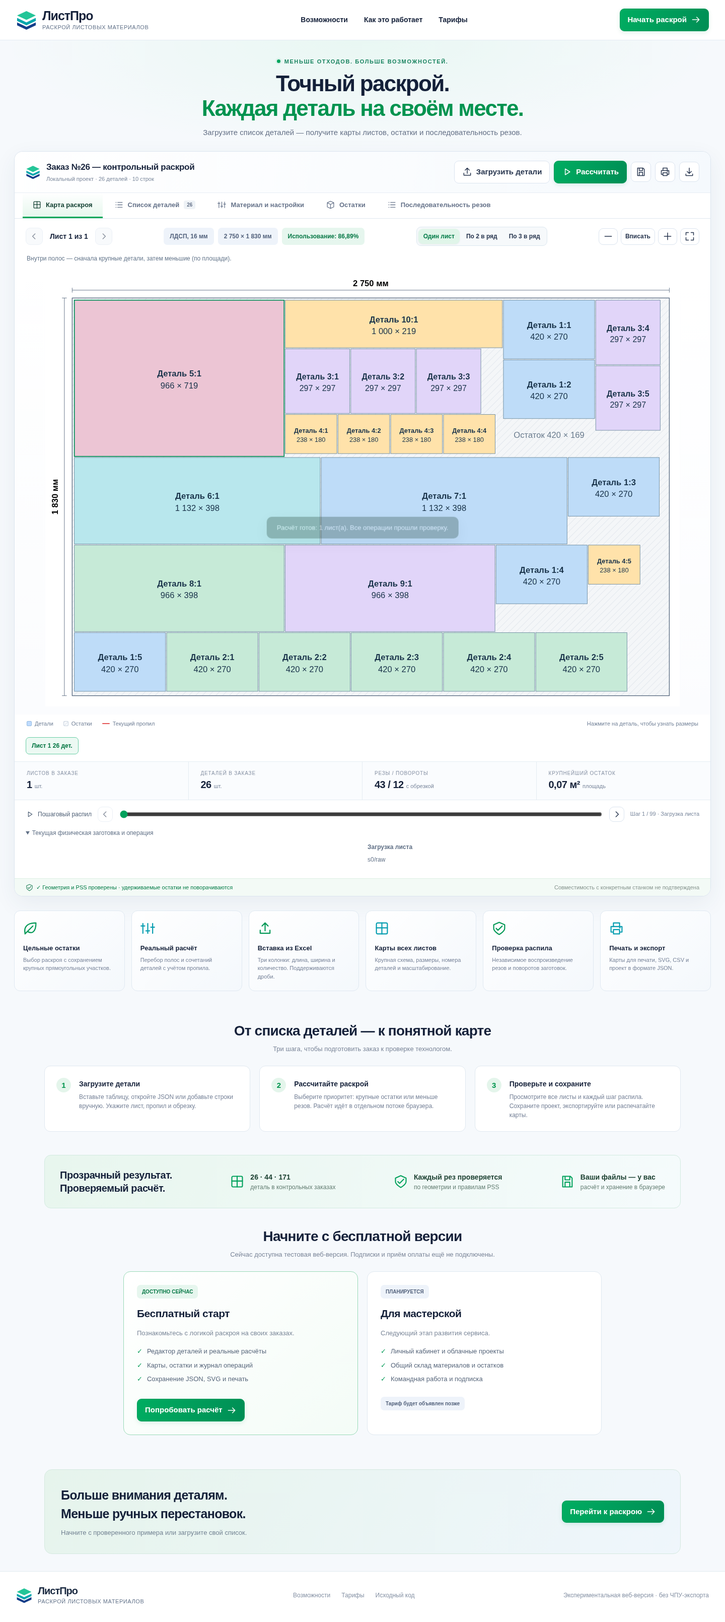
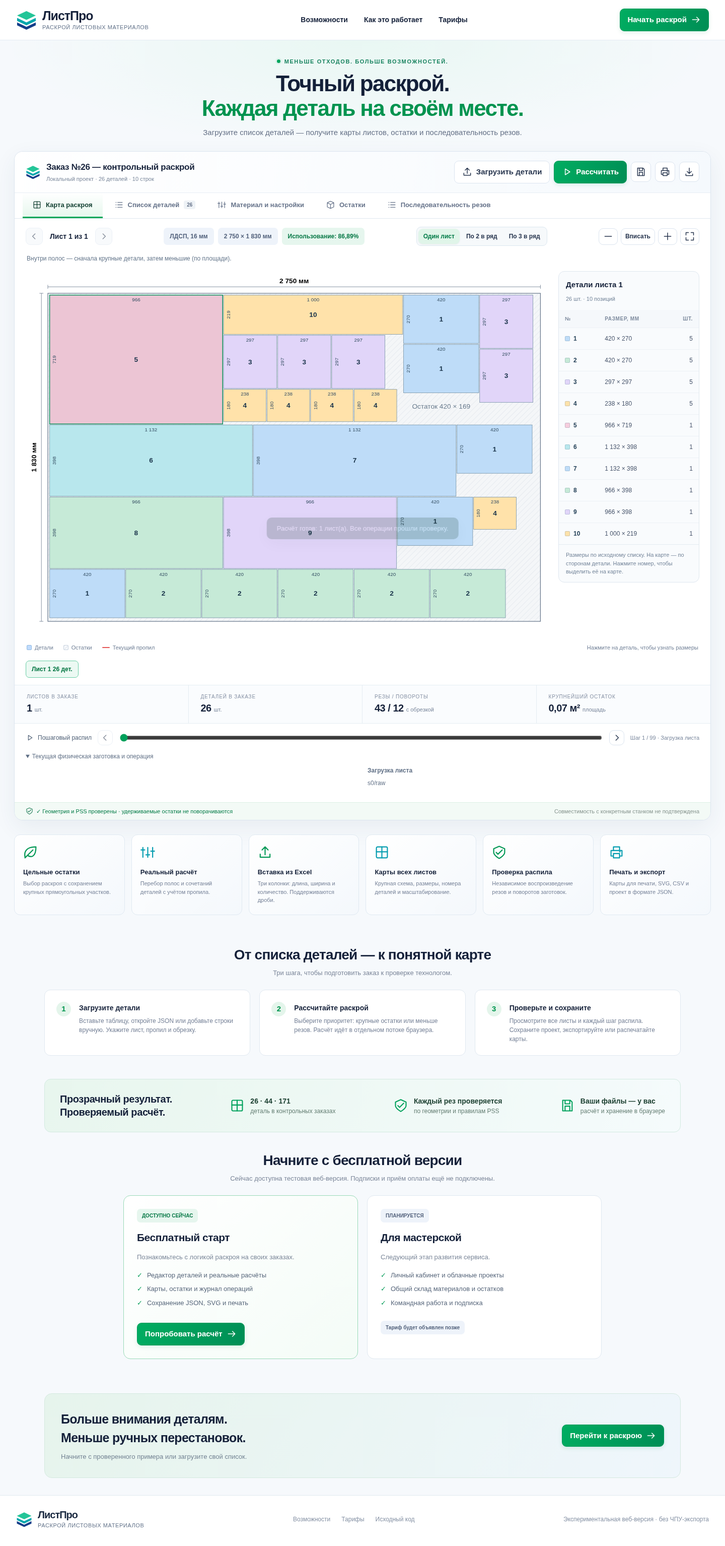
Show short part numbers, side dimensions and per-sheet parts list

diff --git a/listpro-core/web/index.html b/listpro-core/web/index.html
@@ -15,6 +15,10 @@
 @media(max-width:600px){.sheet-gallery,.sheet-gallery[data-columns="3"]{grid-template-columns:minmax(0,1fr);padding:0 12px 14px;gap:12px}.view-switch{width:100%;justify-content:center}.view-switch .btn{flex:1}.sheet-card{padding:10px}}
 
 .strip-order-note{font-size:12px;color:#64768b;padding:0 24px;margin:0 0 16px}.strip-order-note:empty{display:none}
+
+.sheet-detail{display:grid;grid-template-columns:minmax(0,1fr) 280px;gap:18px;padding:0 22px 16px;align-items:start}.sheet-detail .drawing{padding:0;min-width:0}.sheet-parts{min-width:0;border:1px solid #dfe7ef;border-radius:12px;background:#f9fbfd;overflow:hidden}.sheet-parts-heading{padding:15px 14px 12px}.sheet-parts-heading h3{font-size:15px;margin:0 0 4px}.sheet-parts-heading span{font-size:11px;color:#738499}.sheet-parts-scroll{max-height:calc(80vh - 160px);overflow:auto}.sheet-parts table{font-size:12px}.sheet-parts th{padding:10px 12px;font-size:10px}.sheet-parts td{padding:9px 12px;white-space:nowrap}.sheet-parts td:last-child,.sheet-parts th:last-child{text-align:right}.sheet-parts tbody tr{cursor:pointer}.sheet-parts tr.selected{background:#dff4e8}.sheet-parts p{font-size:11px;line-height:1.5;color:#738499;padding:12px 14px;margin:0;border-top:1px solid #e3ebf1}.part-link{display:inline-flex;align-items:center;gap:7px;border:0;padding:3px 0;background:none;font-weight:700;color:#244057}.part-link i{display:inline-block;width:10px;height:10px;border:1px solid #6f899b55;border-radius:2px}
+@media(max-width:900px){.sheet-detail{grid-template-columns:minmax(0,1fr)}.sheet-parts-scroll{max-height:320px}.sheet-parts{width:100%}}
+@media(max-width:600px){.sheet-detail{padding:0 12px 12px}}
 </style></head><body><noscript><p style="padding:20px">Для расчёта и просмотра карт включите JavaScript в браузере.</p></noscript>
 <svg xmlns="http://www.w3.org/2000/svg" class="icon-sprite" aria-hidden="true"><defs>
 <symbol id="i-play" viewBox="0 0 24 24"><path d="m8 5 11 7-11 7Z"/></symbol><symbol id="i-up" viewBox="0 0 24 24"><path d="M12 16V3m-5 5 5-5 5 5M4 15v5h16v-5"/></symbol><symbol id="i-down" viewBox="0 0 24 24"><path d="M12 3v13m-5-5 5 5 5-5M4 17v4h16v-4"/></symbol><symbol id="i-save" viewBox="0 0 24 24"><path d="M4 3h13l3 3v15H4Z M8 3v6h8V3M8 21v-8h8v8"/></symbol><symbol id="i-print" viewBox="0 0 24 24"><path d="M7 8V3h10v5M6 18H3V9h18v9h-3M7 14h10v7H7ZM17 11h1"/></symbol><symbol id="i-left" viewBox="0 0 24 24"><path d="m14 6-6 6 6 6"/></symbol><symbol id="i-right" viewBox="0 0 24 24"><path d="m10 6 6 6-6 6"/></symbol><symbol id="i-grid" viewBox="0 0 24 24"><rect x="3" y="3" width="18" height="18" rx="2"/><path d="M3 11h18M12 3v18"/></symbol><symbol id="i-list" viewBox="0 0 24 24"><path d="M8 5h13M8 12h13M8 19h13M3 5h1M3 12h1M3 19h1"/></symbol><symbol id="i-box" viewBox="0 0 24 24"><path d="m3 6 9-4 9 4-9 5Zm0 0v12l9 4 9-4V6M12 11v11"/></symbol><symbol id="i-settings" viewBox="0 0 24 24"><path d="M4 4v16M12 4v16M20 4v16M1 8h6M9 16h6M17 10h6"/></symbol><symbol id="i-check" viewBox="0 0 24 24"><path d="m5 12 4 4L20 5"/></symbol><symbol id="i-plus" viewBox="0 0 24 24"><path d="M12 4v16M4 12h16"/></symbol><symbol id="i-minus" viewBox="0 0 24 24"><path d="M4 12h16"/></symbol><symbol id="i-close" viewBox="0 0 24 24"><path d="m5 5 14 14M5 19 19 5"/></symbol><symbol id="i-expand" viewBox="0 0 24 24"><path d="M3 9V3h6M15 3h6v6M21 15v6h-6M9 21H3v-6"/></symbol><symbol id="i-shield" viewBox="0 0 24 24"><path d="m12 2 9 4v6c0 5-9 10-9 10S3 17 3 12V6Zm-5 10 3 3 7-7"/></symbol><symbol id="i-trash" viewBox="0 0 24 24"><path d="M3 6h18M8 6V3h8v3M5 6l1 15h12l1-15M9 10v7M15 10v7"/></symbol><symbol id="i-leaf" viewBox="0 0 24 24"><path d="M3 20C0 4 15 3 21 3c0 14-6 19-14 14M3 21 16 8"/></symbol><symbol id="i-arrow" viewBox="0 0 24 24"><path d="M4 12h16m-6-6 6 6-6 6"/></symbol>
@@ -29,7 +33,7 @@
 <div class="map-toolbar"><div class="sheet-nav"><button class="btn" id="prevSheet" aria-label="Предыдущий лист"><svg class="ico" aria-hidden="true"><use href="#i-left"/></svg></button><span id="sheetLabel">Лист 1 из 2</span><button class="btn" id="nextSheet" aria-label="Следующий лист"><svg class="ico" aria-hidden="true"><use href="#i-right"/></svg></button></div><div class="map-meta"><span class="pill" id="materialBadge">Листовой материал</span><span class="pill" id="sizeBadge">2750 × 1830 мм</span><span class="pill green" id="usageBadge">Использование: —</span></div><div class="view-switch" role="group" aria-label="Режим просмотра листов"><button class="btn" id="viewSingle" aria-pressed="false">Один лист</button><button class="btn" id="viewTwo" aria-pressed="true">По 2 в ряд</button><button class="btn" id="viewThree" aria-pressed="false">По 3 в ряд</button></div><div class="map-tools"><button class="btn" id="zoomOut" aria-label="Уменьшить"><svg class="ico" aria-hidden="true"><use href="#i-minus"/></svg></button><button class="btn" title="Вписать компактную карту" id="fit">Вписать</button><button class="btn" id="zoomIn" aria-label="Увеличить"><svg class="ico" aria-hidden="true"><use href="#i-plus"/></svg></button><button class="btn" id="full" aria-label="Открыть карту на весь экран" title="На весь экран"><svg class="ico" aria-hidden="true"><use href="#i-expand"/></svg></button></div></div>
 <p class="strip-order-note" id="orderHint" role="status"></p>
 <div class="sheet-gallery" id="sheetGallery" aria-label="Карты всех листов" hidden></div>
-<div class="drawing" id="drawing" aria-label="Карта выбранного листа"></div>
+<div class="sheet-detail" id="sheetDetail"><div class="drawing" id="drawing" aria-label="Карта выбранного листа"></div><aside class="sheet-parts" id="sheetParts" aria-labelledby="sheetPartsTitle"><div class="sheet-parts-heading"><h3 id="sheetPartsTitle">Детали листа</h3><span id="sheetPartsCount"></span></div><div class="sheet-parts-scroll"><table><thead><tr><th>№</th><th>Размер, мм</th><th>Шт.</th></tr></thead><tbody id="sheetPartsBody"></tbody></table></div><p>Размеры по исходному списку. На карте — по сторонам детали. Нажмите номер, чтобы выделить её на карте.</p></aside></div>
 <div class="legend"><div class="legend-items"><span class="legend-item"><i class="swatch"></i>Детали</span><span class="legend-item"><i class="swatch waste"></i>Остатки</span><span class="legend-item"><i class="swatch cut"></i>Текущий пропил</span></div><span id="partHint">Нажмите на деталь, чтобы узнать размеры</span></div>
 <div class="sheet-tabs" id="sheetTabs" aria-label="Все листы"></div>
 <div class="summary"><div><small>Листов в заказе</small><strong id="statSheets">—</strong><span>шт.</span></div><div><small>Деталей в заказе</small><strong id="statParts">—</strong><span>шт.</span></div><div><small>Резы / повороты</small><strong id="statCuts">—</strong><span>с обрезкой</span></div><div><small>Крупнейший остаток</small><strong id="statRemnant">—</strong><span>площадь</span></div></div>
@@ -1960,9 +1964,15 @@ const engine=load("web/engine.cjs");self.onmessage=({data:m})=>{try{let result;i
   out+='<rect width="'+W+'" height="'+H+'" fill="url(#'+id+')" stroke="#52647b" stroke-width="3"/>';
   out+='<path d="M0 -25v-22M'+W+' -25v-22M0 -36H'+W+' M-25 0h-22M-25 '+H+'h-22M-36 0V'+H+'" fill="none" stroke="#53647b" stroke-width="2"/><text x="'+W/2+'" y="-55" text-anchor="middle" font-size="'+fs+'" font-weight="600">'+fmt(W)+' мм</text><text transform="translate(-65 '+H/2+') rotate(-90)" text-anchor="middle" font-size="'+fs+'" font-weight="600">'+fmt(H)+' мм</text>';
   for(const a of sh.parts){
-   const cx=a.x+a.w/2,cy=a.y+a.h/2,vertical=a.w<a.h*.65,tw=vertical?a.h:a.w,th=vertical?a.w:a.h;
-   const f=Math.min(fs,tw/8,th/4),label=a.id+':'+a.instance;
-   out+='<g class="piece" data-part="'+label+'" tabindex="0" role="button" aria-label="Деталь '+label+', '+a.w+' на '+a.h+' миллиметров"><title>Деталь '+label+' · '+a.w+' × '+a.h+' мм'+(a.rotated?' · повёрнута':'')+'</title><rect x="'+a.x+'" y="'+a.y+'" width="'+a.w+'" height="'+a.h+'" fill="'+colors[(a.id-1)%colors.length]+'" stroke="#66869b" stroke-width="2"/><text transform="translate('+cx+' '+cy+')'+(vertical?' rotate(-90)':'')+'" text-anchor="middle" fill="#183249" font-size="'+f+'"><tspan x="0" dy="-0.2em" font-weight="650">Деталь '+label+'</tspan><tspan x="0" dy="1.4em">'+fmt(a.w)+' × '+fmt(a.h)+'</tspan></text></g>';
+   const cx=a.x+a.w/2,cy=a.y+a.h/2,vertical=a.w<a.h*.65,short=Math.min(a.w,a.h),span=vertical?a.h:a.w;
+   const f=Math.min(fs,short*.65,span/(String(a.id).length*.7+1)),key=a.id+':'+a.instance,small=short<fs*4;
+   out+='<g class="piece" data-part="'+key+'" data-part-id="'+a.id+'" tabindex="0" role="button" aria-label="Деталь №'+a.id+', '+a.w+' на '+a.h+' миллиметров"><title>№'+a.id+' · '+a.w+' × '+a.h+' мм'+(a.rotated?' · повёрнута':'')+'</title><rect x="'+a.x+'" y="'+a.y+'" width="'+a.w+'" height="'+a.h+'" fill="'+colors[(a.id-1)%colors.length]+'" stroke="#66869b" stroke-width="2"/>';
+   out+='<text class="part-number" transform="translate('+cx+' '+cy+')'+(small&&vertical?' rotate(-90)':'')+'" text-anchor="middle" dominant-baseline="central" fill="#183249" font-size="'+f+'" font-weight="700">'+a.id+'</text>';
+   if(!small){const df=fs*.72,inset=df*.55;
+    out+='<text class="part-dimension part-width" x="'+cx+'" y="'+(a.y+inset)+'" text-anchor="middle" dominant-baseline="hanging" fill="#354f63" font-size="'+df+'">'+fmt(a.w)+'</text>';
+    out+='<text class="part-dimension part-height" transform="translate('+(a.x+inset)+' '+cy+') rotate(-90)" text-anchor="middle" dominant-baseline="hanging" fill="#354f63" font-size="'+df+'">'+fmt(a.h)+'</text>';
+   }
+   out+='</g>';
   }
   const largest=sh.remnants.slice().sort((a,b)=>b.area-a.area)[0];
   if(largest&&largest.w>250&&largest.h>120)out+='<text x="'+(largest.x+largest.w/2)+'" y="'+(largest.y+largest.h/2)+'" text-anchor="middle" fill="#6a7c8e" font-size="'+Math.min(fs,largest.h/4)+'">Остаток '+fmt(largest.w)+' × '+fmt(largest.h)+'</text>';
@@ -1978,7 +1988,7 @@ const engine=load("web/engine.cjs");self.onmessage=({data:m})=>{try{let result;i
   for(const a of result.sheets[sheet].parts.filter(a=>a.x>=r.x-.001&&a.y>=r.y-.001&&a.x+a.w<=r.x+r.w+.001&&a.y+a.h<=r.y+r.h+.001)){
    const x=a.x-r.x,y=a.y-r.y,w=a.w,h=a.h;
    const t=[[x,y,w,h],[r.h-y-h,x,h,w],[r.w-x-w,r.h-y-h,w,h],[y,r.w-x-w,h,w]][q];
-   s+='<rect x="'+t[0]+'" y="'+t[1]+'" width="'+t[2]+'" height="'+t[3]+'" fill="'+colors[(a.id-1)%6]+'" stroke="#7c97aa" stroke-width="2"/><text x="'+(t[0]+t[2]/2)+'" y="'+(t[1]+t[3]/2)+'" text-anchor="middle" font-size="'+Math.min(34,t[2]/5,t[3]/3)+'">'+a.id+':'+a.instance+'</text>';
+   s+='<rect x="'+t[0]+'" y="'+t[1]+'" width="'+t[2]+'" height="'+t[3]+'" fill="'+colors[(a.id-1)%6]+'" stroke="#7c97aa" stroke-width="2"/><text x="'+(t[0]+t[2]/2)+'" y="'+(t[1]+t[3]/2)+'" text-anchor="middle" font-size="'+Math.min(34,t[2]/5,t[3]/3)+'">'+a.id+'</text>';
   }
   if(op.type==='cut')s+='<line x1="'+op.start.x+'" y1="'+op.start.y+'" x2="'+op.end.x+'" y2="'+op.end.y+'" stroke="#e24a36" stroke-width="'+Math.max(4,op.kerf)+'"/>';
   return s+'</svg>';
@@ -1986,13 +1996,13 @@ const engine=load("web/engine.cjs");self.onmessage=({data:m})=>{try{let result;i
  const typeName=o=>({load:'Загрузка листа',feed:o.feedMode==='advance-in-place'?'Продвижение остатка':'Установка полосы',cut:(o.edgeFinish?'Торцовка №':'Пропил №')+o.cutIndex,rotate:'Поворот на 90°',endPrimary:'Первичные полосы отделены'}[o.type]||o.type);
  function draw(){
   const gallery=!!result&&columns>1;
-  $('sheetGallery').hidden=!gallery;$('drawing').hidden=gallery;$('sheetTabs').hidden=gallery;$('sheetReplay').hidden=!result||gallery;
+  $('sheetGallery').hidden=!gallery;$('sheetDetail').hidden=gallery;$('drawing').hidden=gallery;$('sheetParts').hidden=!result;$('sheetTabs').hidden=gallery;$('sheetReplay').hidden=!result||gallery;
   $('prevSheet').hidden=gallery;$('nextSheet').hidden=gallery;
   for(const [id,n]of [['viewSingle',1],['viewTwo',2],['viewThree',3]])$(id).setAttribute('aria-pressed',String(columns===n));
   for(const id of ['zoomIn','zoomOut','fit'])$(id).disabled=!result||gallery;
   $('partHint').textContent=gallery?'Нажмите на лист, чтобы открыть крупную карту и шаги распила':'Нажмите на деталь, чтобы узнать размеры';
   $('drawing').classList.toggle('empty',!result);
-  if(!result){$('sheetGallery').innerHTML='';$('drawing').innerHTML='<div class="empty-state"><strong>Карта появится после расчёта</strong><p>Загрузите детали или выберите пример.</p></div>';$('physicalDrawing').innerHTML='';$('opDetails').textContent='';$('opLabel').textContent='Последовательность ещё не рассчитана';return;}
+  if(!result){$('sheetPartsBody').innerHTML='';$('sheetGallery').innerHTML='';$('drawing').innerHTML='<div class="empty-state"><strong>Карта появится после расчёта</strong><p>Загрузите детали или выберите пример.</p></div>';$('physicalDrawing').innerHTML='';$('opDetails').textContent='';$('opLabel').textContent='Последовательность ещё не рассчитана';return;}
   const sh=result.sheets[sheet],p=result.parameters,op=operation();
   if(gallery){
    $('sheetGallery').setAttribute('data-columns',String(columns));
@@ -2002,6 +2012,7 @@ const engine=load("web/engine.cjs");self.onmessage=({data:m})=>{try{let result;i
    }).join('');
   }
   $('drawing').innerHTML=mapSVG(sheet,true);const picture=$('drawing').firstElementChild,margin=Math.max(p.sheetW*.045,90),ratio=(p.sheetW+margin*1.4)/(p.sheetH+margin*1.4);picture.style.width='min('+(zoom*100)+'%, '+(80*ratio*zoom)+'vh)';picture.style.maxHeight=(80*zoom)+'vh';
+  renderSheetParts();
   $('sheetLabel').textContent=gallery?'Все листы · '+result.sheets.length:'Лист '+(sheet+1)+' из '+result.sheets.length;$('prevSheet').disabled=sheet===0;$('nextSheet').disabled=sheet===result.sheets.length-1;
   $('materialBadge').textContent=project.material;$('sizeBadge').textContent=fmt(p.sheetW)+' × '+fmt(p.sheetH)+' мм';
   $('usageBadge').textContent='Использование: '+fmt(100*(gallery?result.sheets.flatMap(s=>s.parts):sh.parts).reduce((n,a)=>n+a.w*a.h,0)/(p.sheetW*p.sheetH*(gallery?result.sheets.length:1)))+'%';
@@ -2012,6 +2023,15 @@ const engine=load("web/engine.cjs");self.onmessage=({data:m})=>{try{let result;i
   $('physicalDrawing').innerHTML=physicalSVG(op);
   const frame=result.verification.roleFrames.find(f=>f.step===op.step);
   $('opDetails').innerHTML='<strong>'+esc(typeName(op))+'</strong><p>'+esc(op.inputBlankId||op.blankId||'')+'</p>'+(op.materialRect?'<p>Заготовка: '+fmt(op.type==='rotate'?op.beforeSize.w:op.w)+' × '+fmt(op.type==='rotate'?op.beforeSize.h:op.h)+' мм<br>Ориентация: '+(op.fromOrientation??op.machineOrientation??0)+'°'+(op.type==='rotate'?' → '+op.toOrientation+'°':'')+'</p>':'')+(op.type==='cut'?'<p>Ось '+op.axis+' · позиция '+fmt(op.axis==='V'?op.start.x:op.start.y)+' мм · пропил '+op.kerf+' мм</p>':'')+(op.edgeFinish?'<p>Торцовка края: часть ширины диска проходит вне заготовки. Размер детали сохранён.</p>':'')+(frame?'<p>'+frame.outputs.map(c=>esc(c.id)+'<br>'+fmt(op.machineOrientation%180?c.rect.h:c.rect.w)+' × '+fmt(op.machineOrientation%180?c.rect.w:c.rect.h)+' мм в станке · '+(op.edgeFinish?'готовая деталь':c.role==='TRIM'?'обрезок':c.held?'удерживается: только дальнейший распуск':'отделена: допускается один поворот')).join('<br><br>')+'</p>':'');
+ }
+ function renderSheetParts(){
+  const sh=result.sheets[sheet],counts=new Map();sh.parts.forEach(a=>counts.set(a.id,(counts.get(a.id)||0)+1));
+  $('sheetPartsTitle').textContent='Детали листа '+(sheet+1);
+  $('sheetPartsCount').textContent=sh.parts.length+' шт. · '+counts.size+' позиций';
+  $('sheetPartsBody').innerHTML=[...counts].sort((a,b)=>a[0]-b[0]).map(([id,q])=>{
+   const a=result.parameters.pieces.find(p=>p.id===id);
+   return '<tr data-sheet-part="'+id+'"><td><button class="part-link" data-highlight-part="'+id+'" aria-label="Показать детали №'+id+' на карте"><i style="background:'+colors[(id-1)%colors.length]+'"></i>'+id+'</button></td><td>'+fmt(a.l)+' × '+fmt(a.w)+'</td><td>'+q+'</td></tr>';
+  }).join('');
  }
  function renderResult(){
   const has=!!result,order=result?.ordering;
@@ -2079,8 +2099,16 @@ const engine=load("web/engine.cjs");self.onmessage=({data:m})=>{try{let result;i
  $('prevOp').onclick=()=>gotoStep(step-1);$('nextOp').onclick=()=>gotoStep(step+1);$('opRange').oninput=()=>gotoStep(Number($('opRange').value));
  function pickOp(e){const row=e.target.closest('[data-step]');if(row){gotoStep(Number(row.dataset.step));tab('map');$('drawing').scrollIntoView({block:'center',behavior:'smooth'});}}
  $('operationsBody').onclick=pickOp;$('operationsBody').onkeydown=e=>{if(e.key==='Enter')pickOp(e);};
- function pickPart(e){const g=e.target.closest('[data-part]');if(!g)return;all('#drawing [data-part] rect').forEach(r=>r.setAttribute('stroke-width','2'));g.querySelector('rect').setAttribute('stroke-width','8');const a=result.sheets[sheet].parts.find(a=>a.id+':'+a.instance===g.dataset.part);$('partHint').textContent='Деталь '+g.dataset.part+' · '+fmt(a.w)+' × '+fmt(a.h)+' мм · X '+fmt(a.x)+', Y '+fmt(a.y)+(a.rotated?' · повёрнута относительно исходных размеров':'');}
- $('drawing').onclick=pickPart;$('drawing').onkeydown=e=>{if(e.key==='Enter'||e.key===' ')pickPart(e);};
+ function highlightPart(id,key=null){
+  if(!result)return;const parts=result.sheets[sheet].parts.filter(a=>a.id===id);if(!parts.length)return;
+  all('#drawing [data-part]').forEach(g=>{const on=key?g.dataset.part===key:Number(g.dataset.partId)===id;g.querySelector('rect').setAttribute('stroke-width',on?'8':'2');g.querySelector('rect').setAttribute('stroke',on?'#00864f':'#66869b');});
+  all('#sheetPartsBody tr').forEach(row=>row.classList.toggle('selected',Number(row.dataset.sheetPart)===id));
+  const a=key?parts.find(a=>a.id+':'+a.instance===key):result.parameters.pieces.find(a=>a.id===id);
+  $('partHint').textContent='№ '+id+' · '+fmt(key?a.w:a.l)+' × '+fmt(key?a.h:a.w)+' мм · на листе '+parts.length+' шт.';
+ }
+ function pickPart(e){const g=e.target.closest('[data-part]');if(!g)return;highlightPart(Number(g.dataset.partId),g.dataset.part);const row=$('sheetPartsBody').querySelector('[data-sheet-part="'+g.dataset.partId+'"]');row?.scrollIntoView({block:'nearest'});}
+ $('drawing').onclick=pickPart;$('drawing').onkeydown=e=>{if(e.key==='Enter'||e.key===' '){e.preventDefault();pickPart(e);}};
+ $('sheetPartsBody').onclick=e=>{const row=e.target.closest('[data-sheet-part]');if(row)highlightPart(Number(row.dataset.sheetPart));};
  document.addEventListener('fullscreenchange',draw);
  $('zoomIn').onclick=()=>{zoom=Math.min(3,zoom+.25);draw();};$('zoomOut').onclick=()=>{zoom=Math.max(1,zoom-.25);draw();};$('fit').onclick=()=>{zoom=1;draw();};
  $('full').onclick=async()=>{try{if(document.fullscreenElement)await document.exitFullscreen();else await $('workspace').requestFullscreen();}catch{toast('Полноэкранный режим недоступен в этом браузере.');}};

diff --git a/listpro-core/web/app.js b/listpro-core/web/app.js
@@ -41,9 +41,15 @@
   out+='<rect width="'+W+'" height="'+H+'" fill="url(#'+id+')" stroke="#52647b" stroke-width="3"/>';
   out+='<path d="M0 -25v-22M'+W+' -25v-22M0 -36H'+W+' M-25 0h-22M-25 '+H+'h-22M-36 0V'+H+'" fill="none" stroke="#53647b" stroke-width="2"/><text x="'+W/2+'" y="-55" text-anchor="middle" font-size="'+fs+'" font-weight="600">'+fmt(W)+' мм</text><text transform="translate(-65 '+H/2+') rotate(-90)" text-anchor="middle" font-size="'+fs+'" font-weight="600">'+fmt(H)+' мм</text>';
   for(const a of sh.parts){
-   const cx=a.x+a.w/2,cy=a.y+a.h/2,vertical=a.w<a.h*.65,tw=vertical?a.h:a.w,th=vertical?a.w:a.h;
-   const f=Math.min(fs,tw/8,th/4),label=a.id+':'+a.instance;
-   out+='<g class="piece" data-part="'+label+'" tabindex="0" role="button" aria-label="Деталь '+label+', '+a.w+' на '+a.h+' миллиметров"><title>Деталь '+label+' · '+a.w+' × '+a.h+' мм'+(a.rotated?' · повёрнута':'')+'</title><rect x="'+a.x+'" y="'+a.y+'" width="'+a.w+'" height="'+a.h+'" fill="'+colors[(a.id-1)%colors.length]+'" stroke="#66869b" stroke-width="2"/><text transform="translate('+cx+' '+cy+')'+(vertical?' rotate(-90)':'')+'" text-anchor="middle" fill="#183249" font-size="'+f+'"><tspan x="0" dy="-0.2em" font-weight="650">Деталь '+label+'</tspan><tspan x="0" dy="1.4em">'+fmt(a.w)+' × '+fmt(a.h)+'</tspan></text></g>';
+   const cx=a.x+a.w/2,cy=a.y+a.h/2,vertical=a.w<a.h*.65,short=Math.min(a.w,a.h),span=vertical?a.h:a.w;
+   const f=Math.min(fs,short*.65,span/(String(a.id).length*.7+1)),key=a.id+':'+a.instance,small=short<fs*4;
+   out+='<g class="piece" data-part="'+key+'" data-part-id="'+a.id+'" tabindex="0" role="button" aria-label="Деталь №'+a.id+', '+a.w+' на '+a.h+' миллиметров"><title>№'+a.id+' · '+a.w+' × '+a.h+' мм'+(a.rotated?' · повёрнута':'')+'</title><rect x="'+a.x+'" y="'+a.y+'" width="'+a.w+'" height="'+a.h+'" fill="'+colors[(a.id-1)%colors.length]+'" stroke="#66869b" stroke-width="2"/>';
+   out+='<text class="part-number" transform="translate('+cx+' '+cy+')'+(small&&vertical?' rotate(-90)':'')+'" text-anchor="middle" dominant-baseline="central" fill="#183249" font-size="'+f+'" font-weight="700">'+a.id+'</text>';
+   if(!small){const df=fs*.72,inset=df*.55;
+    out+='<text class="part-dimension part-width" x="'+cx+'" y="'+(a.y+inset)+'" text-anchor="middle" dominant-baseline="hanging" fill="#354f63" font-size="'+df+'">'+fmt(a.w)+'</text>';
+    out+='<text class="part-dimension part-height" transform="translate('+(a.x+inset)+' '+cy+') rotate(-90)" text-anchor="middle" dominant-baseline="hanging" fill="#354f63" font-size="'+df+'">'+fmt(a.h)+'</text>';
+   }
+   out+='</g>';
   }
   const largest=sh.remnants.slice().sort((a,b)=>b.area-a.area)[0];
   if(largest&&largest.w>250&&largest.h>120)out+='<text x="'+(largest.x+largest.w/2)+'" y="'+(largest.y+largest.h/2)+'" text-anchor="middle" fill="#6a7c8e" font-size="'+Math.min(fs,largest.h/4)+'">Остаток '+fmt(largest.w)+' × '+fmt(largest.h)+'</text>';
@@ -59,7 +65,7 @@
   for(const a of result.sheets[sheet].parts.filter(a=>a.x>=r.x-.001&&a.y>=r.y-.001&&a.x+a.w<=r.x+r.w+.001&&a.y+a.h<=r.y+r.h+.001)){
    const x=a.x-r.x,y=a.y-r.y,w=a.w,h=a.h;
    const t=[[x,y,w,h],[r.h-y-h,x,h,w],[r.w-x-w,r.h-y-h,w,h],[y,r.w-x-w,h,w]][q];
-   s+='<rect x="'+t[0]+'" y="'+t[1]+'" width="'+t[2]+'" height="'+t[3]+'" fill="'+colors[(a.id-1)%6]+'" stroke="#7c97aa" stroke-width="2"/><text x="'+(t[0]+t[2]/2)+'" y="'+(t[1]+t[3]/2)+'" text-anchor="middle" font-size="'+Math.min(34,t[2]/5,t[3]/3)+'">'+a.id+':'+a.instance+'</text>';
+   s+='<rect x="'+t[0]+'" y="'+t[1]+'" width="'+t[2]+'" height="'+t[3]+'" fill="'+colors[(a.id-1)%6]+'" stroke="#7c97aa" stroke-width="2"/><text x="'+(t[0]+t[2]/2)+'" y="'+(t[1]+t[3]/2)+'" text-anchor="middle" font-size="'+Math.min(34,t[2]/5,t[3]/3)+'">'+a.id+'</text>';
   }
   if(op.type==='cut')s+='<line x1="'+op.start.x+'" y1="'+op.start.y+'" x2="'+op.end.x+'" y2="'+op.end.y+'" stroke="#e24a36" stroke-width="'+Math.max(4,op.kerf)+'"/>';
   return s+'</svg>';
@@ -67,13 +73,13 @@
  const typeName=o=>({load:'Загрузка листа',feed:o.feedMode==='advance-in-place'?'Продвижение остатка':'Установка полосы',cut:(o.edgeFinish?'Торцовка №':'Пропил №')+o.cutIndex,rotate:'Поворот на 90°',endPrimary:'Первичные полосы отделены'}[o.type]||o.type);
  function draw(){
   const gallery=!!result&&columns>1;
-  $('sheetGallery').hidden=!gallery;$('drawing').hidden=gallery;$('sheetTabs').hidden=gallery;$('sheetReplay').hidden=!result||gallery;
+  $('sheetGallery').hidden=!gallery;$('sheetDetail').hidden=gallery;$('drawing').hidden=gallery;$('sheetParts').hidden=!result;$('sheetTabs').hidden=gallery;$('sheetReplay').hidden=!result||gallery;
   $('prevSheet').hidden=gallery;$('nextSheet').hidden=gallery;
   for(const [id,n]of [['viewSingle',1],['viewTwo',2],['viewThree',3]])$(id).setAttribute('aria-pressed',String(columns===n));
   for(const id of ['zoomIn','zoomOut','fit'])$(id).disabled=!result||gallery;
   $('partHint').textContent=gallery?'Нажмите на лист, чтобы открыть крупную карту и шаги распила':'Нажмите на деталь, чтобы узнать размеры';
   $('drawing').classList.toggle('empty',!result);
-  if(!result){$('sheetGallery').innerHTML='';$('drawing').innerHTML='<div class="empty-state"><strong>Карта появится после расчёта</strong><p>Загрузите детали или выберите пример.</p></div>';$('physicalDrawing').innerHTML='';$('opDetails').textContent='';$('opLabel').textContent='Последовательность ещё не рассчитана';return;}
+  if(!result){$('sheetPartsBody').innerHTML='';$('sheetGallery').innerHTML='';$('drawing').innerHTML='<div class="empty-state"><strong>Карта появится после расчёта</strong><p>Загрузите детали или выберите пример.</p></div>';$('physicalDrawing').innerHTML='';$('opDetails').textContent='';$('opLabel').textContent='Последовательность ещё не рассчитана';return;}
   const sh=result.sheets[sheet],p=result.parameters,op=operation();
   if(gallery){
    $('sheetGallery').setAttribute('data-columns',String(columns));
@@ -83,6 +89,7 @@
    }).join('');
   }
   $('drawing').innerHTML=mapSVG(sheet,true);const picture=$('drawing').firstElementChild,margin=Math.max(p.sheetW*.045,90),ratio=(p.sheetW+margin*1.4)/(p.sheetH+margin*1.4);picture.style.width='min('+(zoom*100)+'%, '+(80*ratio*zoom)+'vh)';picture.style.maxHeight=(80*zoom)+'vh';
+  renderSheetParts();
   $('sheetLabel').textContent=gallery?'Все листы · '+result.sheets.length:'Лист '+(sheet+1)+' из '+result.sheets.length;$('prevSheet').disabled=sheet===0;$('nextSheet').disabled=sheet===result.sheets.length-1;
   $('materialBadge').textContent=project.material;$('sizeBadge').textContent=fmt(p.sheetW)+' × '+fmt(p.sheetH)+' мм';
   $('usageBadge').textContent='Использование: '+fmt(100*(gallery?result.sheets.flatMap(s=>s.parts):sh.parts).reduce((n,a)=>n+a.w*a.h,0)/(p.sheetW*p.sheetH*(gallery?result.sheets.length:1)))+'%';
@@ -93,6 +100,15 @@
   $('physicalDrawing').innerHTML=physicalSVG(op);
   const frame=result.verification.roleFrames.find(f=>f.step===op.step);
   $('opDetails').innerHTML='<strong>'+esc(typeName(op))+'</strong><p>'+esc(op.inputBlankId||op.blankId||'')+'</p>'+(op.materialRect?'<p>Заготовка: '+fmt(op.type==='rotate'?op.beforeSize.w:op.w)+' × '+fmt(op.type==='rotate'?op.beforeSize.h:op.h)+' мм<br>Ориентация: '+(op.fromOrientation??op.machineOrientation??0)+'°'+(op.type==='rotate'?' → '+op.toOrientation+'°':'')+'</p>':'')+(op.type==='cut'?'<p>Ось '+op.axis+' · позиция '+fmt(op.axis==='V'?op.start.x:op.start.y)+' мм · пропил '+op.kerf+' мм</p>':'')+(op.edgeFinish?'<p>Торцовка края: часть ширины диска проходит вне заготовки. Размер детали сохранён.</p>':'')+(frame?'<p>'+frame.outputs.map(c=>esc(c.id)+'<br>'+fmt(op.machineOrientation%180?c.rect.h:c.rect.w)+' × '+fmt(op.machineOrientation%180?c.rect.w:c.rect.h)+' мм в станке · '+(op.edgeFinish?'готовая деталь':c.role==='TRIM'?'обрезок':c.held?'удерживается: только дальнейший распуск':'отделена: допускается один поворот')).join('<br><br>')+'</p>':'');
+ }
+ function renderSheetParts(){
+  const sh=result.sheets[sheet],counts=new Map();sh.parts.forEach(a=>counts.set(a.id,(counts.get(a.id)||0)+1));
+  $('sheetPartsTitle').textContent='Детали листа '+(sheet+1);
+  $('sheetPartsCount').textContent=sh.parts.length+' шт. · '+counts.size+' позиций';
+  $('sheetPartsBody').innerHTML=[...counts].sort((a,b)=>a[0]-b[0]).map(([id,q])=>{
+   const a=result.parameters.pieces.find(p=>p.id===id);
+   return '<tr data-sheet-part="'+id+'"><td><button class="part-link" data-highlight-part="'+id+'" aria-label="Показать детали №'+id+' на карте"><i style="background:'+colors[(id-1)%colors.length]+'"></i>'+id+'</button></td><td>'+fmt(a.l)+' × '+fmt(a.w)+'</td><td>'+q+'</td></tr>';
+  }).join('');
  }
  function renderResult(){
   const has=!!result,order=result?.ordering;
@@ -160,8 +176,16 @@
  $('prevOp').onclick=()=>gotoStep(step-1);$('nextOp').onclick=()=>gotoStep(step+1);$('opRange').oninput=()=>gotoStep(Number($('opRange').value));
  function pickOp(e){const row=e.target.closest('[data-step]');if(row){gotoStep(Number(row.dataset.step));tab('map');$('drawing').scrollIntoView({block:'center',behavior:'smooth'});}}
  $('operationsBody').onclick=pickOp;$('operationsBody').onkeydown=e=>{if(e.key==='Enter')pickOp(e);};
- function pickPart(e){const g=e.target.closest('[data-part]');if(!g)return;all('#drawing [data-part] rect').forEach(r=>r.setAttribute('stroke-width','2'));g.querySelector('rect').setAttribute('stroke-width','8');const a=result.sheets[sheet].parts.find(a=>a.id+':'+a.instance===g.dataset.part);$('partHint').textContent='Деталь '+g.dataset.part+' · '+fmt(a.w)+' × '+fmt(a.h)+' мм · X '+fmt(a.x)+', Y '+fmt(a.y)+(a.rotated?' · повёрнута относительно исходных размеров':'');}
- $('drawing').onclick=pickPart;$('drawing').onkeydown=e=>{if(e.key==='Enter'||e.key===' ')pickPart(e);};
+ function highlightPart(id,key=null){
+  if(!result)return;const parts=result.sheets[sheet].parts.filter(a=>a.id===id);if(!parts.length)return;
+  all('#drawing [data-part]').forEach(g=>{const on=key?g.dataset.part===key:Number(g.dataset.partId)===id;g.querySelector('rect').setAttribute('stroke-width',on?'8':'2');g.querySelector('rect').setAttribute('stroke',on?'#00864f':'#66869b');});
+  all('#sheetPartsBody tr').forEach(row=>row.classList.toggle('selected',Number(row.dataset.sheetPart)===id));
+  const a=key?parts.find(a=>a.id+':'+a.instance===key):result.parameters.pieces.find(a=>a.id===id);
+  $('partHint').textContent='№ '+id+' · '+fmt(key?a.w:a.l)+' × '+fmt(key?a.h:a.w)+' мм · на листе '+parts.length+' шт.';
+ }
+ function pickPart(e){const g=e.target.closest('[data-part]');if(!g)return;highlightPart(Number(g.dataset.partId),g.dataset.part);const row=$('sheetPartsBody').querySelector('[data-sheet-part="'+g.dataset.partId+'"]');row?.scrollIntoView({block:'nearest'});}
+ $('drawing').onclick=pickPart;$('drawing').onkeydown=e=>{if(e.key==='Enter'||e.key===' '){e.preventDefault();pickPart(e);}};
+ $('sheetPartsBody').onclick=e=>{const row=e.target.closest('[data-sheet-part]');if(row)highlightPart(Number(row.dataset.sheetPart));};
  document.addEventListener('fullscreenchange',draw);
  $('zoomIn').onclick=()=>{zoom=Math.min(3,zoom+.25);draw();};$('zoomOut').onclick=()=>{zoom=Math.max(1,zoom-.25);draw();};$('fit').onclick=()=>{zoom=1;draw();};
  $('full').onclick=async()=>{try{if(document.fullscreenElement)await document.exitFullscreen();else await $('workspace').requestFullscreen();}catch{toast('Полноэкранный режим недоступен в этом браузере.');}};

diff --git a/listpro-core/web/template.html b/listpro-core/web/template.html
@@ -12,7 +12,7 @@
 <div class="map-toolbar"><div class="sheet-nav"><button class="btn" id="prevSheet" aria-label="Предыдущий лист"><svg class="ico" aria-hidden="true"><use href="#i-left"/></svg></button><span id="sheetLabel">Лист 1 из 2</span><button class="btn" id="nextSheet" aria-label="Следующий лист"><svg class="ico" aria-hidden="true"><use href="#i-right"/></svg></button></div><div class="map-meta"><span class="pill" id="materialBadge">Листовой материал</span><span class="pill" id="sizeBadge">2750 × 1830 мм</span><span class="pill green" id="usageBadge">Использование: —</span></div><div class="view-switch" role="group" aria-label="Режим просмотра листов"><button class="btn" id="viewSingle" aria-pressed="false">Один лист</button><button class="btn" id="viewTwo" aria-pressed="true">По 2 в ряд</button><button class="btn" id="viewThree" aria-pressed="false">По 3 в ряд</button></div><div class="map-tools"><button class="btn" id="zoomOut" aria-label="Уменьшить"><svg class="ico" aria-hidden="true"><use href="#i-minus"/></svg></button><button class="btn" title="Вписать компактную карту" id="fit">Вписать</button><button class="btn" id="zoomIn" aria-label="Увеличить"><svg class="ico" aria-hidden="true"><use href="#i-plus"/></svg></button><button class="btn" id="full" aria-label="Открыть карту на весь экран" title="На весь экран"><svg class="ico" aria-hidden="true"><use href="#i-expand"/></svg></button></div></div>
 <p class="strip-order-note" id="orderHint" role="status"></p>
 <div class="sheet-gallery" id="sheetGallery" aria-label="Карты всех листов" hidden></div>
-<div class="drawing" id="drawing" aria-label="Карта выбранного листа"></div>
+<div class="sheet-detail" id="sheetDetail"><div class="drawing" id="drawing" aria-label="Карта выбранного листа"></div><aside class="sheet-parts" id="sheetParts" aria-labelledby="sheetPartsTitle"><div class="sheet-parts-heading"><h3 id="sheetPartsTitle">Детали листа</h3><span id="sheetPartsCount"></span></div><div class="sheet-parts-scroll"><table><thead><tr><th>№</th><th>Размер, мм</th><th>Шт.</th></tr></thead><tbody id="sheetPartsBody"></tbody></table></div><p>Размеры по исходному списку. На карте — по сторонам детали. Нажмите номер, чтобы выделить её на карте.</p></aside></div>
 <div class="legend"><div class="legend-items"><span class="legend-item"><i class="swatch"></i>Детали</span><span class="legend-item"><i class="swatch waste"></i>Остатки</span><span class="legend-item"><i class="swatch cut"></i>Текущий пропил</span></div><span id="partHint">Нажмите на деталь, чтобы узнать размеры</span></div>
 <div class="sheet-tabs" id="sheetTabs" aria-label="Все листы"></div>
 <div class="summary"><div><small>Листов в заказе</small><strong id="statSheets">—</strong><span>шт.</span></div><div><small>Деталей в заказе</small><strong id="statParts">—</strong><span>шт.</span></div><div><small>Резы / повороты</small><strong id="statCuts">—</strong><span>с обрезкой</span></div><div><small>Крупнейший остаток</small><strong id="statRemnant">—</strong><span>площадь</span></div></div>

diff --git a/listpro-core/web/styles.css b/listpro-core/web/styles.css
@@ -15,3 +15,7 @@
 @media(max-width:600px){.sheet-gallery,.sheet-gallery[data-columns="3"]{grid-template-columns:minmax(0,1fr);padding:0 12px 14px;gap:12px}.view-switch{width:100%;justify-content:center}.view-switch .btn{flex:1}.sheet-card{padding:10px}}
 
 .strip-order-note{font-size:12px;color:#64768b;padding:0 24px;margin:0 0 16px}.strip-order-note:empty{display:none}
+
+.sheet-detail{display:grid;grid-template-columns:minmax(0,1fr) 280px;gap:18px;padding:0 22px 16px;align-items:start}.sheet-detail .drawing{padding:0;min-width:0}.sheet-parts{min-width:0;border:1px solid #dfe7ef;border-radius:12px;background:#f9fbfd;overflow:hidden}.sheet-parts-heading{padding:15px 14px 12px}.sheet-parts-heading h3{font-size:15px;margin:0 0 4px}.sheet-parts-heading span{font-size:11px;color:#738499}.sheet-parts-scroll{max-height:calc(80vh - 160px);overflow:auto}.sheet-parts table{font-size:12px}.sheet-parts th{padding:10px 12px;font-size:10px}.sheet-parts td{padding:9px 12px;white-space:nowrap}.sheet-parts td:last-child,.sheet-parts th:last-child{text-align:right}.sheet-parts tbody tr{cursor:pointer}.sheet-parts tr.selected{background:#dff4e8}.sheet-parts p{font-size:11px;line-height:1.5;color:#738499;padding:12px 14px;margin:0;border-top:1px solid #e3ebf1}.part-link{display:inline-flex;align-items:center;gap:7px;border:0;padding:3px 0;background:none;font-weight:700;color:#244057}.part-link i{display:inline-block;width:10px;height:10px;border:1px solid #6f899b55;border-radius:2px}
+@media(max-width:900px){.sheet-detail{grid-template-columns:minmax(0,1fr)}.sheet-parts-scroll{max-height:320px}.sheet-parts{width:100%}}
+@media(max-width:600px){.sheet-detail{padding:0 12px 12px}}

diff --git a/listpro-core/web/RESULTS.md b/listpro-core/web/RESULTS.md
@@ -97,3 +97,11 @@ GitHub Actions для первой полной веб-сборки 481003df38d4
 По уточнению пользователя режим «Один лист» и «Вписать» ограничены 80vh. Ширина рассчитывается из пропорций SVG и доступной области, карта центрируется. На узком экране ограничение ширины имеет приоритет; ручное увеличение работает относительно этого базового размера. Сетки по 2/3 не изменены.
 
 Пройдены 12 веб-проверок и Chromium: при высоте окна 1080 px SVG имеет высоту 863,98 px, при 900 px — 720 px; пропорции сохраняются при изменении окна. Проверены увеличение и возврат, мобильная вёрстка и прежние браузерные сценарии. Ошибок JavaScript нет.
+
+## Web 0.5 — номера, размеры по сторонам и список текущего листа (2026-11-04)
+
+На карте оставлен номер позиции без суффикса экземпляра: `77`, а не `Деталь 77:1`. Идентификаторы экземпляров в данных сохраняются. Горизонтальный размер подписан у верхней стороны, вертикальный — у левой; используются фактические габариты размещённой детали с учётом поворота. На узких и маленьких деталях показан только номер. Эти подписи также используются в сетке карт, SVG и печати.
+
+В режиме одного листа справа добавлен список его деталей: номер, исходные размеры и количество только на текущем листе. Одинаковые позиции объединены; нажатие на номер выделяет все её экземпляры на карте, нажатие на деталь выделяет соответствующую строку. Размеры в таблице сохраняют порядок исходного списка и дробные значения. На экранах до 900 px список расположен под картой. Сохранён предел высоты карты 80vh с ограничением доступной шириной.
+
+Пройдены 12 веб-проверок и сценарий Chromium: короткие номера, размеры по сторонам, маленькая деталь №77 без размеров, суммы количеств текущего листа, переход между листами и выделение. Для заказа 44 деталей таблица показывает 28 и 16 деталей на первом и втором листах; для первого листа заказа 171 — 15 деталей / 13 позиций. При 1440×1080 карта со списком занимает 1040×712,69 px, при 1920×900 высота карты 720 px. На мобильном экране 390 px список под картой, горизонтального переполнения нет. Пересчёт, импорт, SVG, печать и режимы 2/3 карты в ряд также проверены; ошибок JavaScript нет. Скриншоты: `qa/labels-and-list.png`, `qa/mobile-list.png`. Вычислительный алгоритм и раскладки не изменены.
